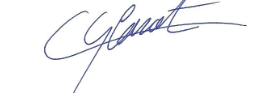
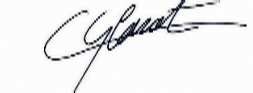
Fix de la siganture pour le pdf

Changed region(s): [[0.166, 0.0, 0.996, 1.0]]

diff --git a/fpdf/pdfGsb.php b/fpdf/pdfGsb.php
@@ -379,7 +379,7 @@ class PdfGsb extends FPDF
         //Marge
         $this->Cell(20 + $largeurColonne * 2);
         //Génère une erreur
-        //$this->Image('images/signatureComptable.png');
+        $this->Image('images/signatureComptable.png');
     }
 }
 
